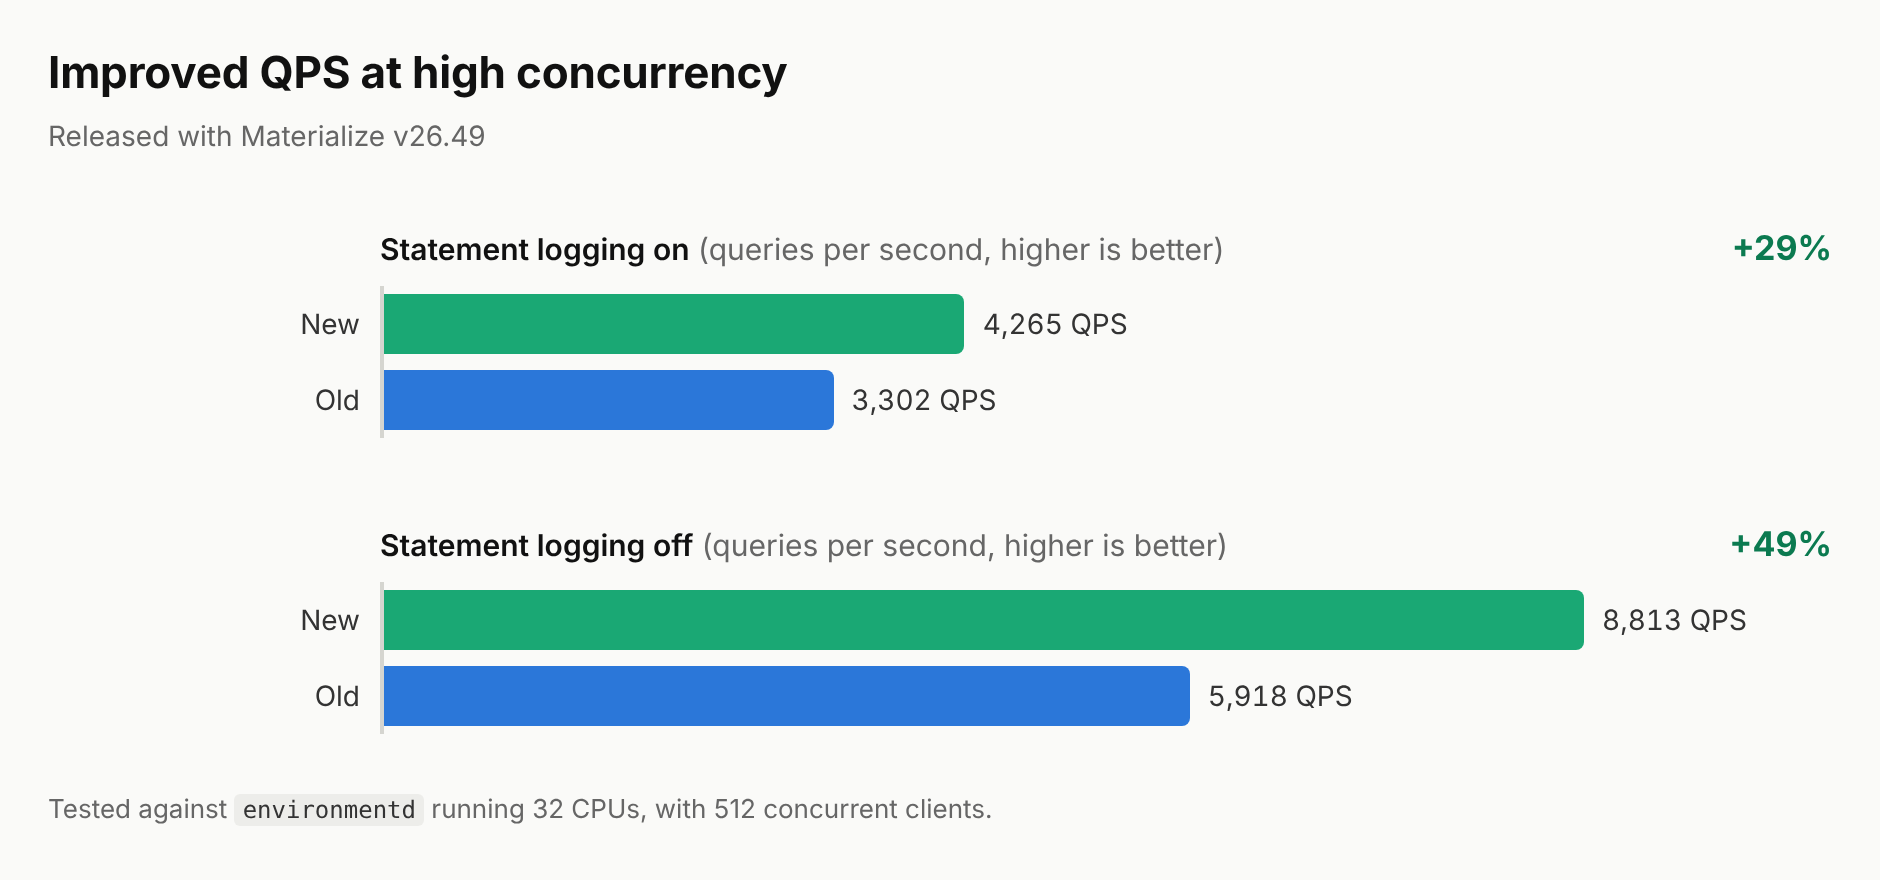
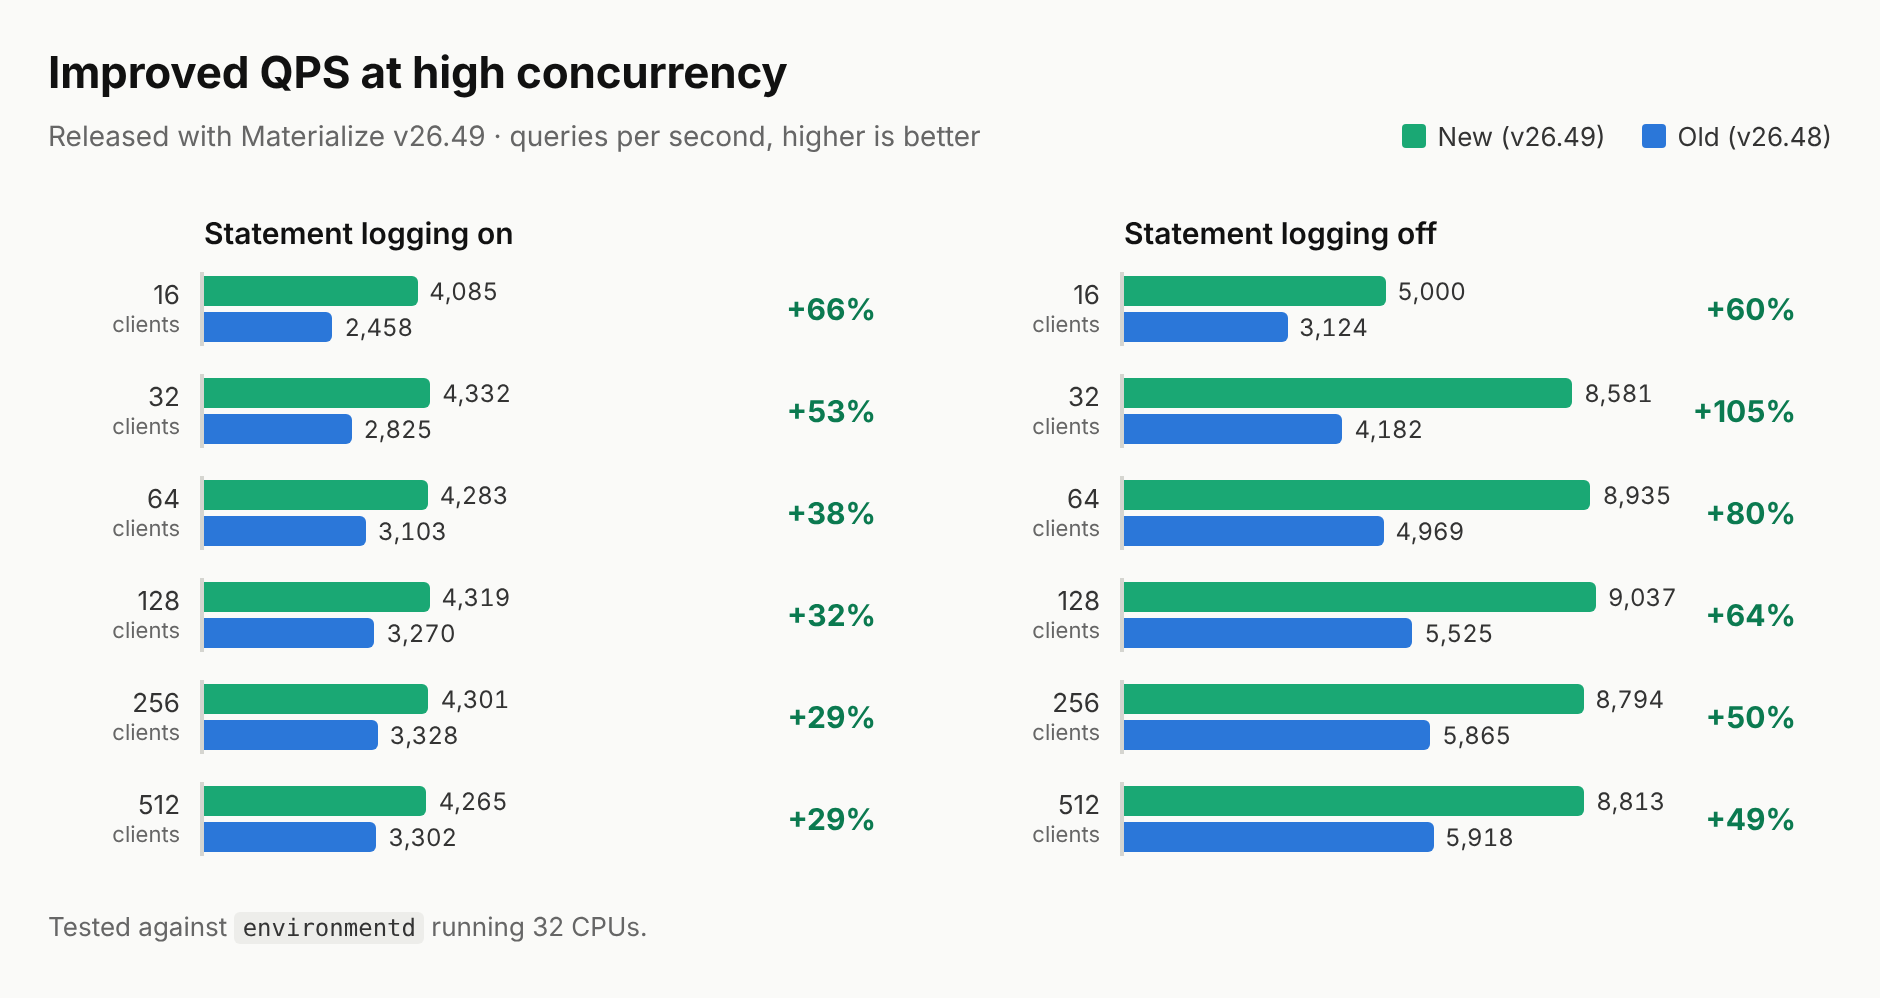
releases: show v26.49 QPS gains from 16 to 512 clients
Claude-Session: https://claude.ai/code/session_016Dcnmpq7JseDtgyPrLHPnS

diff --git a/doc/user/content/releases/_index.md b/doc/user/content/releases/_index.md
@@ -28,9 +28,9 @@ both Cloud and Self-Managed. See [Release schedule](/releases/schedule) for deta
 
 Materialize now does less work per query, so it can serve more queries per second when many clients query it at once.
 
-![Queries per second with 512 concurrent clients against environmentd running 32 CPUs, old versus new: with statement logging on, QPS rises from 3,302 to 4,265 (+29%), and with statement logging off, from 5,918 to 8,813 (+49%)](/images/releases/v2649_qps.png)
+![Queries per second from 16 to 512 concurrent clients against environmentd running 32 CPUs, v26.48 versus v26.49: with statement logging on, QPS improves by 29% to 66%, for example from 3,302 to 4,265 at 512 clients, and with statement logging off, by 49% to 105%, for example from 5,918 to 8,813 at 512 clients](/images/releases/v2649_qps.png)
 
-We tested v26.48 against v26.49, running `environmentd` with 32 CPUs and 512 concurrent clients issuing point lookups against an indexed view. We observed throughput improved by 29% with [statement logging](/self-managed-deployments/query-history/) on, and by 49% with statement logging off.
+We tested v26.48 against v26.49, running `environmentd` with 32 CPUs and between 16 and 512 concurrent clients issuing point lookups against an indexed view. At 512 clients, we observed throughput improved by 29% with [statement logging](/self-managed-deployments/query-history/) on, and by 49% with statement logging off. At lower concurrency, the gains were larger, up to 66% with statement logging on and 105% with it off.
 
 ### Right size your clusters, using the new Hydration tab on the console {#v26.49-hydration-tab}
 
